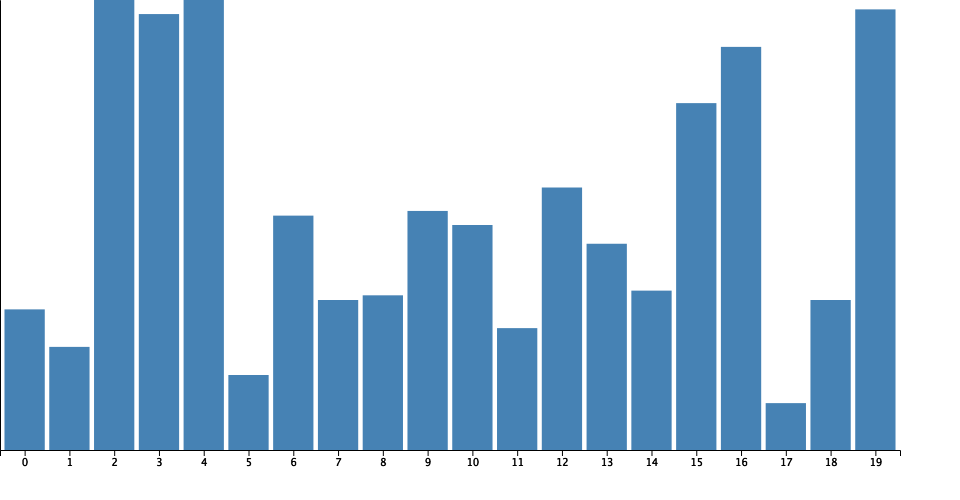
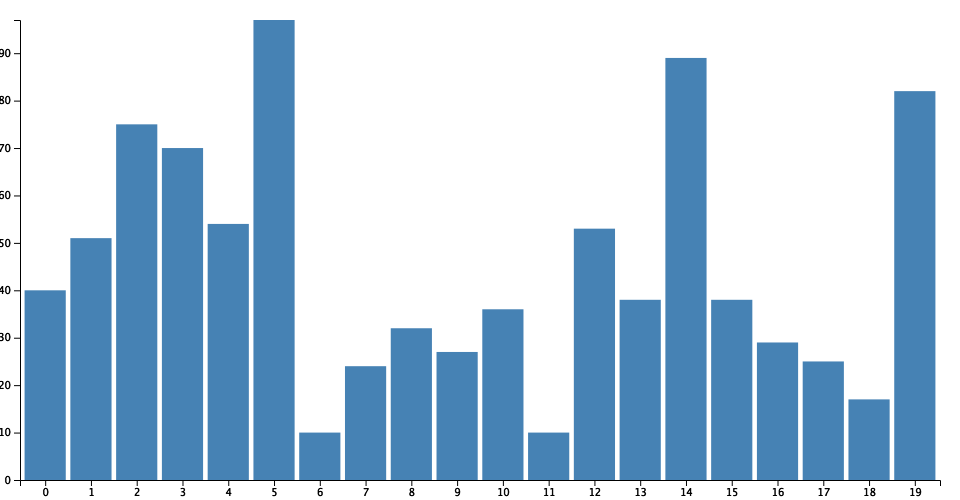
[docs] update README

diff --git a/example/output.html b/example/output.html
@@ -3,6 +3,6 @@
       <div id="chart"><svg xmlns="http://www.w3.org/2000/svg" width="960" height="500"><defs><style type="text/css"><![CDATA[ 
     .bar { fill: steelblue; }
     .bar:hover { fill: brown; }
-   ]]></style></defs><g transform="translate(40, 20)"></g><rect class="bar" x="4.477611940298459" width="40.29850746268657" y="309.375" height="140.625"></rect><rect class="bar" x="49.25373134328354" width="40.29850746268657" y="346.875" height="103.125"></rect><rect class="bar" x="94.02985074626862" width="40.29850746268657" y="0" height="450"></rect><rect class="bar" x="138.8059701492537" width="40.29850746268657" y="14.0625" height="435.9375"></rect><rect class="bar" x="183.58208955223878" width="40.29850746268657" y="0" height="450"></rect><rect class="bar" x="228.35820895522386" width="40.29850746268657" y="375" height="75"></rect><rect class="bar" x="273.13432835820896" width="40.29850746268657" y="215.62499999999997" height="234.37500000000003"></rect><rect class="bar" x="317.910447761194" width="40.29850746268657" y="300" height="150"></rect><rect class="bar" x="362.6865671641791" width="40.29850746268657" y="295.3125" height="154.6875"></rect><rect class="bar" x="407.4626865671642" width="40.29850746268657" y="210.9375" height="239.0625"></rect><rect class="bar" x="452.23880597014926" width="40.29850746268657" y="225" height="225"></rect><rect class="bar" x="497.01492537313436" width="40.29850746268657" y="328.125" height="121.875"></rect><rect class="bar" x="541.7910447761194" width="40.29850746268657" y="187.5" height="262.5"></rect><rect class="bar" x="586.5671641791046" width="40.29850746268657" y="243.75" height="206.25"></rect><rect class="bar" x="631.3432835820895" width="40.29850746268657" y="290.625" height="159.375"></rect><rect class="bar" x="676.1194029850747" width="40.29850746268657" y="103.125" height="346.875"></rect><rect class="bar" x="720.8955223880598" width="40.29850746268657" y="46.875" height="403.125"></rect><rect class="bar" x="765.6716417910447" width="40.29850746268657" y="403.125" height="46.875"></rect><rect class="bar" x="810.4477611940299" width="40.29850746268657" y="300" height="150"></rect><rect class="bar" x="855.2238805970151" width="40.29850746268657" y="9.375" height="440.625"></rect><g transform="translate(0,450)" fill="none" font-size="10" font-family="sans-serif" text-anchor="middle"><path class="domain" stroke="#000" d="M0.5000,6V0.5000H900.5000V6"></path><g class="tick" opacity="1" transform="translate(24.626865671641745,0)"><line stroke="#000" y2="6" x1="0.5" x2="0.5"></line><text fill="#000" y="9" x="0.5" dy="0.71em">0</text></g><g class="tick" opacity="1" transform="translate(69.40298507462683,0)"><line stroke="#000" y2="6" x1="0.5" x2="0.5"></line><text fill="#000" y="9" x="0.5" dy="0.71em">1</text></g><g class="tick" opacity="1" transform="translate(114.1791044776119,0)"><line stroke="#000" y2="6" x1="0.5" x2="0.5"></line><text fill="#000" y="9" x="0.5" dy="0.71em">2</text></g><g class="tick" opacity="1" transform="translate(158.955223880597,0)"><line stroke="#000" y2="6" x1="0.5" x2="0.5"></line><text fill="#000" y="9" x="0.5" dy="0.71em">3</text></g><g class="tick" opacity="1" transform="translate(203.73134328358208,0)"><line stroke="#000" y2="6" x1="0.5" x2="0.5"></line><text fill="#000" y="9" x="0.5" dy="0.71em">4</text></g><g class="tick" opacity="1" transform="translate(248.50746268656715,0)"><line stroke="#000" y2="6" x1="0.5" x2="0.5"></line><text fill="#000" y="9" x="0.5" dy="0.71em">5</text></g><g class="tick" opacity="1" transform="translate(293.2835820895522,0)"><line stroke="#000" y2="6" x1="0.5" x2="0.5"></line><text fill="#000" y="9" x="0.5" dy="0.71em">6</text></g><g class="tick" opacity="1" transform="translate(338.0597014925373,0)"><line stroke="#000" y2="6" x1="0.5" x2="0.5"></line><text fill="#000" y="9" x="0.5" dy="0.71em">7</text></g><g class="tick" opacity="1" transform="translate(382.8358208955224,0)"><line stroke="#000" y2="6" x1="0.5" x2="0.5"></line><text fill="#000" y="9" x="0.5" dy="0.71em">8</text></g><g class="tick" opacity="1" transform="translate(427.6119402985075,0)"><line stroke="#000" y2="6" x1="0.5" x2="0.5"></line><text fill="#000" y="9" x="0.5" dy="0.71em">9</text></g><g class="tick" opacity="1" transform="translate(472.3880597014925,0)"><line stroke="#000" y2="6" x1="0.5" x2="0.5"></line><text fill="#000" y="9" x="0.5" dy="0.71em">10</text></g><g class="tick" opacity="1" transform="translate(517.1641791044776,0)"><line stroke="#000" y2="6" x1="0.5" x2="0.5"></line><text fill="#000" y="9" x="0.5" dy="0.71em">11</text></g><g class="tick" opacity="1" transform="translate(561.9402985074627,0)"><line stroke="#000" y2="6" x1="0.5" x2="0.5"></line><text fill="#000" y="9" x="0.5" dy="0.71em">12</text></g><g class="tick" opacity="1" transform="translate(606.7164179104478,0)"><line stroke="#000" y2="6" x1="0.5" x2="0.5"></line><text fill="#000" y="9" x="0.5" dy="0.71em">13</text></g><g class="tick" opacity="1" transform="translate(651.4925373134328,0)"><line stroke="#000" y2="6" x1="0.5" x2="0.5"></line><text fill="#000" y="9" x="0.5" dy="0.71em">14</text></g><g class="tick" opacity="1" transform="translate(696.2686567164179,0)"><line stroke="#000" y2="6" x1="0.5" x2="0.5"></line><text fill="#000" y="9" x="0.5" dy="0.71em">15</text></g><g class="tick" opacity="1" transform="translate(741.0447761194031,0)"><line stroke="#000" y2="6" x1="0.5" x2="0.5"></line><text fill="#000" y="9" x="0.5" dy="0.71em">16</text></g><g class="tick" opacity="1" transform="translate(785.820895522388,0)"><line stroke="#000" y2="6" x1="0.5" x2="0.5"></line><text fill="#000" y="9" x="0.5" dy="0.71em">17</text></g><g class="tick" opacity="1" transform="translate(830.5970149253732,0)"><line stroke="#000" y2="6" x1="0.5" x2="0.5"></line><text fill="#000" y="9" x="0.5" dy="0.71em">18</text></g><g class="tick" opacity="1" transform="translate(875.3731343283583,0)"><line stroke="#000" y2="6" x1="0.5" x2="0.5"></line><text fill="#000" y="9" x="0.5" dy="0.71em">19</text></g></g><g fill="none" font-size="10" font-family="sans-serif" text-anchor="end"><path class="domain" stroke="#000" d="M-6,450.5000H0.5000V0.5000H-6"></path><g class="tick" opacity="1" transform="translate(0,450)"><line stroke="#000" x2="-6" y1="0.5" y2="0.5"></line><text fill="#000" x="-9" y="0.5" dy="0.32em">0</text></g><g class="tick" opacity="1" transform="translate(0,403.125)"><line stroke="#000" x2="-6" y1="0.5" y2="0.5"></line><text fill="#000" x="-9" y="0.5" dy="0.32em">10</text></g><g class="tick" opacity="1" transform="translate(0,356.25)"><line stroke="#000" x2="-6" y1="0.5" y2="0.5"></line><text fill="#000" x="-9" y="0.5" dy="0.32em">20</text></g><g class="tick" opacity="1" transform="translate(0,309.375)"><line stroke="#000" x2="-6" y1="0.5" y2="0.5"></line><text fill="#000" x="-9" y="0.5" dy="0.32em">30</text></g><g class="tick" opacity="1" transform="translate(0,262.5)"><line stroke="#000" x2="-6" y1="0.5" y2="0.5"></line><text fill="#000" x="-9" y="0.5" dy="0.32em">40</text></g><g class="tick" opacity="1" transform="translate(0,215.62499999999997)"><line stroke="#000" x2="-6" y1="0.5" y2="0.5"></line><text fill="#000" x="-9" y="0.5" dy="0.32em">50</text></g><g class="tick" opacity="1" transform="translate(0,168.75)"><line stroke="#000" x2="-6" y1="0.5" y2="0.5"></line><text fill="#000" x="-9" y="0.5" dy="0.32em">60</text></g><g class="tick" opacity="1" transform="translate(0,121.875)"><line stroke="#000" x2="-6" y1="0.5" y2="0.5"></line><text fill="#000" x="-9" y="0.5" dy="0.32em">70</text></g><g class="tick" opacity="1" transform="translate(0,75)"><line stroke="#000" x2="-6" y1="0.5" y2="0.5"></line><text fill="#000" x="-9" y="0.5" dy="0.32em">80</text></g><g class="tick" opacity="1" transform="translate(0,28.125)"><line stroke="#000" x2="-6" y1="0.5" y2="0.5"></line><text fill="#000" x="-9" y="0.5" dy="0.32em">90</text></g></g></svg></div>
+   ]]></style></defs><g transform="translate(20, 20)"><rect class="bar" x="4.577114427860693" width="41.194029850746276" y="270.30927835051546" height="189.69072164948454"></rect><rect class="bar" x="50.34825870646766" width="41.194029850746276" y="218.1443298969072" height="241.8556701030928"></rect><rect class="bar" x="96.11940298507463" width="41.194029850746276" y="104.3298969072165" height="355.6701030927835"></rect><rect class="bar" x="141.89054726368158" width="41.194029850746276" y="128.04123711340208" height="331.9587628865979"></rect><rect class="bar" x="187.66169154228857" width="41.194029850746276" y="203.91752577319585" height="256.08247422680415"></rect><rect class="bar" x="233.43283582089555" width="41.194029850746276" y="0" height="460"></rect><rect class="bar" x="279.2039800995025" width="41.194029850746276" y="412.5773195876289" height="47.42268041237111"></rect><rect class="bar" x="324.97512437810946" width="41.194029850746276" y="346.1855670103093" height="113.81443298969072"></rect><rect class="bar" x="370.74626865671644" width="41.194029850746276" y="308.24742268041234" height="151.75257731958766"></rect><rect class="bar" x="416.5174129353234" width="41.194029850746276" y="331.9587628865979" height="128.04123711340208"></rect><rect class="bar" x="462.2885572139304" width="41.194029850746276" y="289.2783505154639" height="170.7216494845361"></rect><rect class="bar" x="508.05970149253733" width="41.194029850746276" y="412.5773195876289" height="47.42268041237111"></rect><rect class="bar" x="553.8308457711443" width="41.194029850746276" y="208.65979381443302" height="251.34020618556698"></rect><rect class="bar" x="599.6019900497513" width="41.194029850746276" y="279.79381443298973" height="180.20618556701027"></rect><rect class="bar" x="645.3731343283582" width="41.194029850746276" y="37.93814432989694" height="422.06185567010306"></rect><rect class="bar" x="691.1442786069653" width="41.194029850746276" y="279.79381443298973" height="180.20618556701027"></rect><rect class="bar" x="736.9154228855722" width="41.194029850746276" y="322.4742268041237" height="137.5257731958763"></rect><rect class="bar" x="782.6865671641791" width="41.194029850746276" y="341.4432989690722" height="118.5567010309278"></rect><rect class="bar" x="828.4577114427861" width="41.194029850746276" y="379.3814432989691" height="80.61855670103091"></rect><rect class="bar" x="874.2288557213931" width="41.194029850746276" y="71.13402061855669" height="388.8659793814433"></rect><g transform="translate(0,460)" fill="none" font-size="10" font-family="sans-serif" text-anchor="middle"><path class="domain" stroke="#000" d="M0.5000,6V0.5000H920.5000V6"></path><g class="tick" opacity="1" transform="translate(25.17412935323383,0)"><line stroke="#000" y2="6" x1="0.5" x2="0.5"></line><text fill="#000" y="9" x="0.5" dy="0.71em">0</text></g><g class="tick" opacity="1" transform="translate(70.94527363184079,0)"><line stroke="#000" y2="6" x1="0.5" x2="0.5"></line><text fill="#000" y="9" x="0.5" dy="0.71em">1</text></g><g class="tick" opacity="1" transform="translate(116.71641791044777,0)"><line stroke="#000" y2="6" x1="0.5" x2="0.5"></line><text fill="#000" y="9" x="0.5" dy="0.71em">2</text></g><g class="tick" opacity="1" transform="translate(162.48756218905473,0)"><line stroke="#000" y2="6" x1="0.5" x2="0.5"></line><text fill="#000" y="9" x="0.5" dy="0.71em">3</text></g><g class="tick" opacity="1" transform="translate(208.2587064676617,0)"><line stroke="#000" y2="6" x1="0.5" x2="0.5"></line><text fill="#000" y="9" x="0.5" dy="0.71em">4</text></g><g class="tick" opacity="1" transform="translate(254.0298507462687,0)"><line stroke="#000" y2="6" x1="0.5" x2="0.5"></line><text fill="#000" y="9" x="0.5" dy="0.71em">5</text></g><g class="tick" opacity="1" transform="translate(299.8009950248756,0)"><line stroke="#000" y2="6" x1="0.5" x2="0.5"></line><text fill="#000" y="9" x="0.5" dy="0.71em">6</text></g><g class="tick" opacity="1" transform="translate(345.5721393034826,0)"><line stroke="#000" y2="6" x1="0.5" x2="0.5"></line><text fill="#000" y="9" x="0.5" dy="0.71em">7</text></g><g class="tick" opacity="1" transform="translate(391.34328358208955,0)"><line stroke="#000" y2="6" x1="0.5" x2="0.5"></line><text fill="#000" y="9" x="0.5" dy="0.71em">8</text></g><g class="tick" opacity="1" transform="translate(437.11442786069654,0)"><line stroke="#000" y2="6" x1="0.5" x2="0.5"></line><text fill="#000" y="9" x="0.5" dy="0.71em">9</text></g><g class="tick" opacity="1" transform="translate(482.8855721393035,0)"><line stroke="#000" y2="6" x1="0.5" x2="0.5"></line><text fill="#000" y="9" x="0.5" dy="0.71em">10</text></g><g class="tick" opacity="1" transform="translate(528.6567164179105,0)"><line stroke="#000" y2="6" x1="0.5" x2="0.5"></line><text fill="#000" y="9" x="0.5" dy="0.71em">11</text></g><g class="tick" opacity="1" transform="translate(574.4278606965174,0)"><line stroke="#000" y2="6" x1="0.5" x2="0.5"></line><text fill="#000" y="9" x="0.5" dy="0.71em">12</text></g><g class="tick" opacity="1" transform="translate(620.1990049751245,0)"><line stroke="#000" y2="6" x1="0.5" x2="0.5"></line><text fill="#000" y="9" x="0.5" dy="0.71em">13</text></g><g class="tick" opacity="1" transform="translate(665.9701492537314,0)"><line stroke="#000" y2="6" x1="0.5" x2="0.5"></line><text fill="#000" y="9" x="0.5" dy="0.71em">14</text></g><g class="tick" opacity="1" transform="translate(711.7412935323384,0)"><line stroke="#000" y2="6" x1="0.5" x2="0.5"></line><text fill="#000" y="9" x="0.5" dy="0.71em">15</text></g><g class="tick" opacity="1" transform="translate(757.5124378109454,0)"><line stroke="#000" y2="6" x1="0.5" x2="0.5"></line><text fill="#000" y="9" x="0.5" dy="0.71em">16</text></g><g class="tick" opacity="1" transform="translate(803.2835820895523,0)"><line stroke="#000" y2="6" x1="0.5" x2="0.5"></line><text fill="#000" y="9" x="0.5" dy="0.71em">17</text></g><g class="tick" opacity="1" transform="translate(849.0547263681593,0)"><line stroke="#000" y2="6" x1="0.5" x2="0.5"></line><text fill="#000" y="9" x="0.5" dy="0.71em">18</text></g><g class="tick" opacity="1" transform="translate(894.8258706467662,0)"><line stroke="#000" y2="6" x1="0.5" x2="0.5"></line><text fill="#000" y="9" x="0.5" dy="0.71em">19</text></g></g><g fill="none" font-size="10" font-family="sans-serif" text-anchor="end"><path class="domain" stroke="#000" d="M-6,460.5000H0.5000V0.5000H-6"></path><g class="tick" opacity="1" transform="translate(0,460)"><line stroke="#000" x2="-6" y1="0.5" y2="0.5"></line><text fill="#000" x="-9" y="0.5" dy="0.32em">0</text></g><g class="tick" opacity="1" transform="translate(0,412.5773195876289)"><line stroke="#000" x2="-6" y1="0.5" y2="0.5"></line><text fill="#000" x="-9" y="0.5" dy="0.32em">10</text></g><g class="tick" opacity="1" transform="translate(0,365.1546391752577)"><line stroke="#000" x2="-6" y1="0.5" y2="0.5"></line><text fill="#000" x="-9" y="0.5" dy="0.32em">20</text></g><g class="tick" opacity="1" transform="translate(0,317.7319587628866)"><line stroke="#000" x2="-6" y1="0.5" y2="0.5"></line><text fill="#000" x="-9" y="0.5" dy="0.32em">30</text></g><g class="tick" opacity="1" transform="translate(0,270.30927835051546)"><line stroke="#000" x2="-6" y1="0.5" y2="0.5"></line><text fill="#000" x="-9" y="0.5" dy="0.32em">40</text></g><g class="tick" opacity="1" transform="translate(0,222.88659793814435)"><line stroke="#000" x2="-6" y1="0.5" y2="0.5"></line><text fill="#000" x="-9" y="0.5" dy="0.32em">50</text></g><g class="tick" opacity="1" transform="translate(0,175.46391752577318)"><line stroke="#000" x2="-6" y1="0.5" y2="0.5"></line><text fill="#000" x="-9" y="0.5" dy="0.32em">60</text></g><g class="tick" opacity="1" transform="translate(0,128.04123711340208)"><line stroke="#000" x2="-6" y1="0.5" y2="0.5"></line><text fill="#000" x="-9" y="0.5" dy="0.32em">70</text></g><g class="tick" opacity="1" transform="translate(0,80.61855670103097)"><line stroke="#000" x2="-6" y1="0.5" y2="0.5"></line><text fill="#000" x="-9" y="0.5" dy="0.32em">80</text></g><g class="tick" opacity="1" transform="translate(0,33.195876288659804)"><line stroke="#000" x2="-6" y1="0.5" y2="0.5"></line><text fill="#000" x="-9" y="0.5" dy="0.32em">90</text></g></g></g></svg></div>
     </div>
   </body></html>

diff --git a/src/index.js b/src/index.js
@@ -13,7 +13,7 @@ const { addStyle } = require('./utils.js')
  * @param {function} D3Node D3Node will get in node environment
  * @param {string} selector DOM selector in container
  * @param {string} container DOM contained the visualization result
- * @param {string} style
+ * @param {string} style Bar chart style
  * @param {number} width
  * @param {number} height
  * @param {object} margin
@@ -45,7 +45,6 @@ function bar ({
     .bar { fill: ${_barColor}; }
     .bar:hover { fill: ${_barHoverColor}; }
   ` + _style
-
 
   let _d3 // Instance of d3
   let d3n // Instance of D3Node

diff --git a/README.md b/README.md
@@ -1,6 +1,8 @@
 ## BarChart
 
-Bar chart generator for [markvis](https://github.com/geekplux/markvis) in browser and node.js.
+> Bar chart generator for [markvis](https://github.com/geekplux/markvis) in browser and node.js.
+
+[![NPM version](https://img.shields.io/npm/v/markvis-bar.svg?style=flat-square)](https://npmjs.com/package/markvis-bar) [![NPM downloads](https://img.shields.io/npm/dm/markvis-bar.svg?style=flat-square)](https://npmjs.com/package/markvis-bar) [![donate](https://img.shields.io/badge/$-donate-ff69b4.svg?maxAge=2592000&style=flat-square)](https://geekplux.github.io/donate)
 
 ## Install
 
@@ -21,13 +23,13 @@ const bar = markvisBar({ data, d3, d3node })
 
 Check out the [example](./example) for usage.
 
-##### Output the visualization result to a image
+#### Output the visualization result to a PNG image
 
 ```
-npm start
+npm run example
 ```
 
-## Output Preview (png):
+#### Output Preview (png):
 
 ![chart](./example/output.png)
 
@@ -52,9 +54,9 @@ Data from file or web processed by d3 library.
 
 ##### d3node
 
-- Type: `Object`
+- Type: `Function`
 
-`d3-node` library which used in **node** environment.
+`d3-node` constructor which used in **node** environment.
 
 ##### selector
 
@@ -78,7 +80,50 @@ DOM contained the visualization result.
 .bar {fill: steelblue;}
 .bar:hover {fill: brown;}
 ```
-Barchart style.
+Bar chart style.
+
+##### width
+
+- Type: `Number`<br>
+- Default: `960`
+
+SVG width for bar chart.
+
+##### height
+
+- Type: `Number`<br>
+- Default: `500`
+
+SVG height for bar chart.
+
+##### margin
+
+- Type: `Object`<br>
+- Default: `{ top: 20, right: 20, bottom: 20, left: 20 }`
+
+Margin of the first <g> wrapper in SVG, usually used to add axis.
+
+##### barColor
+
+- Type: `string`<br>
+- Default: `steelblue`
+
+Color of bar.
+
+##### barHoverColor
+
+- Type: `string`<br>
+- Default: `steelblue`
+
+Color of bar hoverd.
+
+##### export
+
+- Type: `boolean`<br>
+- Default: `false`
+
+Whether to export to a PNG image.
+
 
 ## Contributing
 
@@ -94,4 +139,4 @@ Barchart style.
 **markvis-bar** © [geekplux](https://github.com/geekplux), Released under the [MIT](./LICENSE) License.<br>
 Authored and maintained by geekplux with help from contributors ([list](https://github.com/geekplux/markvis/contributors)).
 
-> [github.com/geekplux](https://github.com/geekplux) · GitHub [@geekplux](https://github.com/geekplux) · Twitter [@geekplux](https://twitter.com/geekplux)
+> [geekplux.com](http://geekplux.com) · GitHub [@geekplux](https://github.com/geekplux) · Twitter [@geekplux](https://twitter.com/geekplux)
